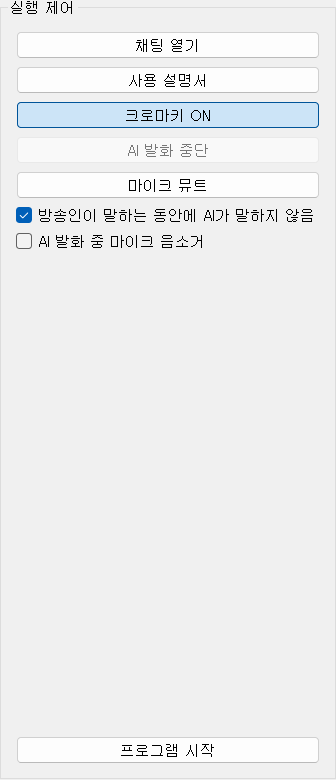
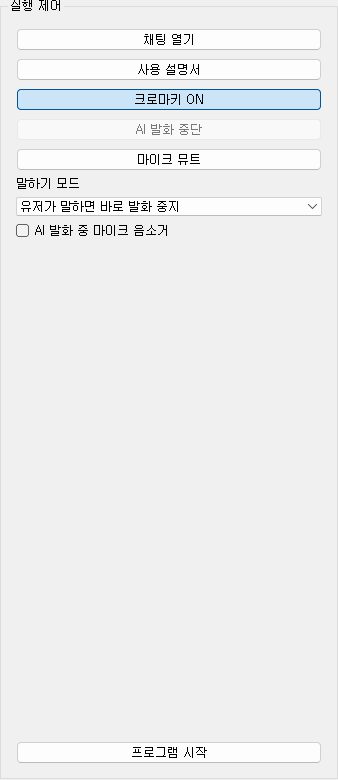
Document three-level speaking mode in runtime control.
Replace legacy interrupt checkbox docs with speaking mode options and update panel screenshot.

diff --git a/pages/02-9-runtime-control.md b/pages/02-9-runtime-control.md
@@ -43,7 +43,13 @@
 
 ## STT·TTS 겹침 방지
 
-**방송인이 말하는 동안에 AI가 말하지 않음** — 마이크로 사람 발화가 감지되면 AI TTS를 끊거나 말하지 않습니다. 스트리머와 AI 목소리가 겹치는 것을 막습니다.
+**말하기 모드** — 마이크로 사람 발화가 확정되었을 때 AI TTS를 어떻게 처리할지 고릅니다.
+
+| 옵션 | 동작 |
+|------|------|
+| 유저가 말하면 바로 발화 중지 | AI TTS·LLM 즉시 중단 (기본값, 방송 권장) |
+| 유저가 말하면 지금 말하는 문장만 말하고 발화 중지 | 재생 중인 문장은 끝까지 재생, 이후 문장·TTS 스킵 |
+| 유저가 말해도 계속 발화 | 유저 발화 중에도 AI가 끊기지 않음 |
 
 **AI 발화 중 마이크 음소거** — AI가 말하는 동안 STT 입력을 잠시 끕니다. AI 목소리가 마이크로 다시 들어가 에코·오인식이 나는 것을 줄입니다.
 

diff --git a/pages/01-getting-started.md b/pages/01-getting-started.md
@@ -127,7 +127,7 @@ sequenceDiagram
 - **채팅 열기** — 텍스트로 AI와 대화 (테스트)
 - **크로마키 ON/OFF** — OBS 합성용 배경 모드 (ON=그린 스크린·크로마키 필터, OFF=투명 창 오버레이). [실행 제어](https://wikidocs.net/372534) 참고
 - **AI 발화 중단** · **마이크 뮤트** — 방송 중 즉시 제어
-- **방송인이 말하는 동안 AI가 말하지 않음** · **AI 발화 중 마이크 음소거** — 목소리 겹침 방지
+- **말하기 모드 (3단계)** · **AI 발화 중 마이크 음소거** — 목소리 겹침 방지
 
 ### 정상 동작 확인
 